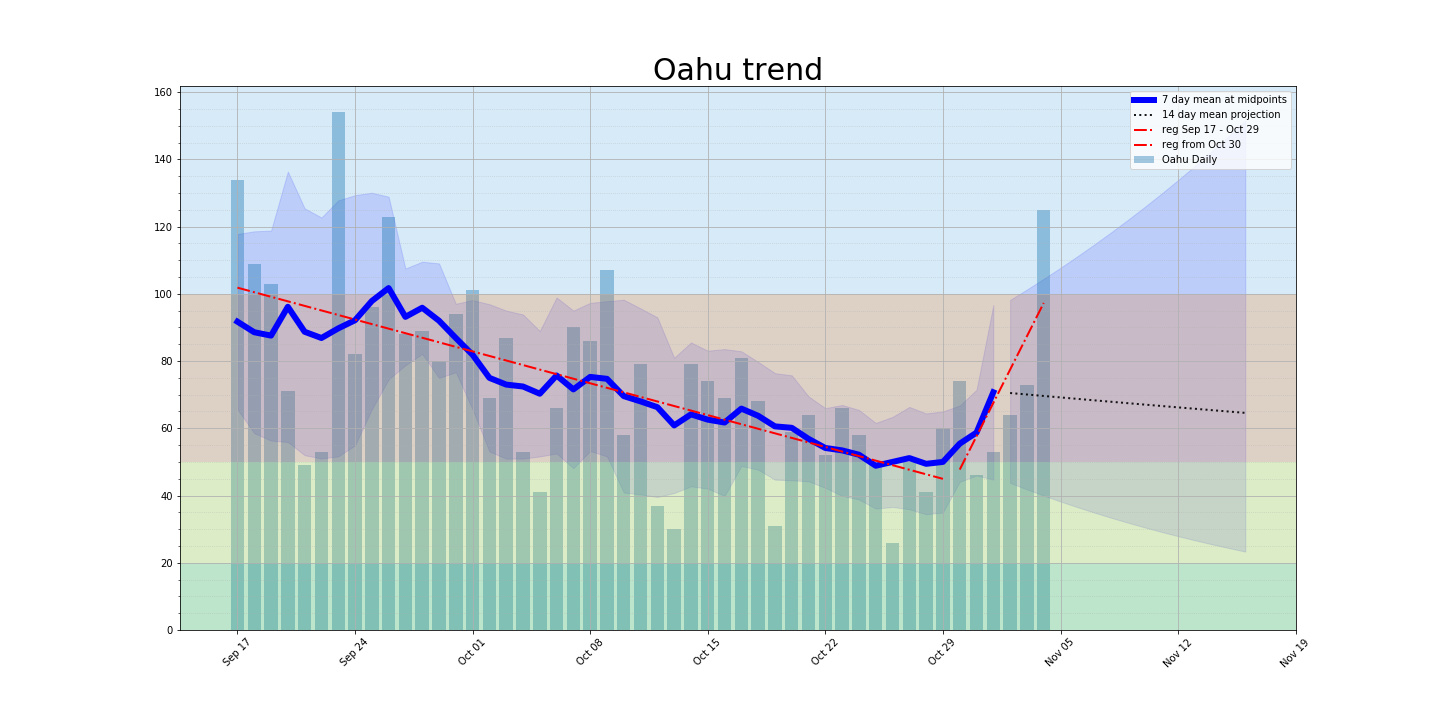
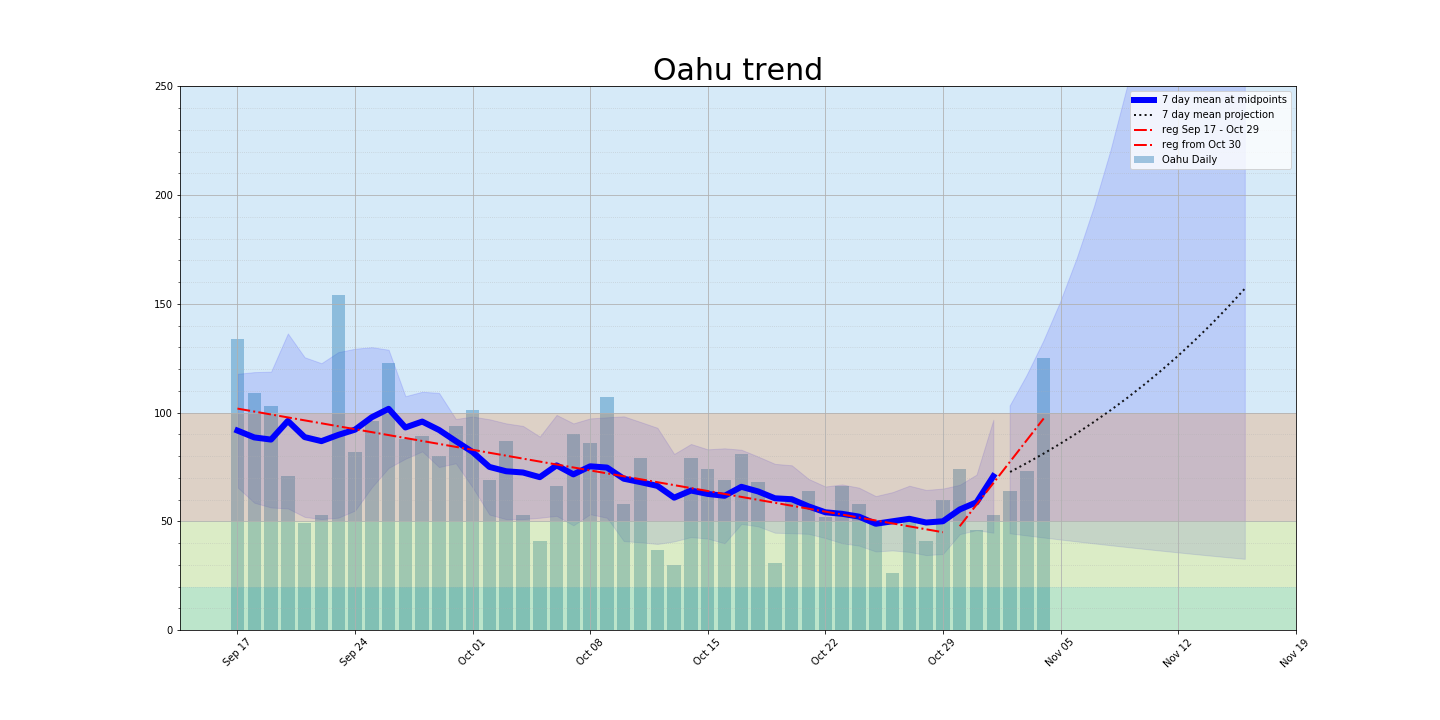
Add files via upload

Changed region(s): [[0.0938, 0.1222, 0.9062, 0.825]]

diff --git a/index.html b/index.html
@@ -194,7 +194,7 @@
 		
 		<br><img class="center-fit" src="oahu_smoothed.png" alt="Oahu daily cases with smoothed average">
 		<br><img class="center-fit" src ="trend.png" alt="Oahu daily cases with 7 day mean and trend projection">
-		<p class="center-fit">The average rate over the last two weeks was about 0.994, std = 0.038.</p>
+		<p class="center-fit">The average rate over the week was about 1.057, std = 0.078.</p>
 		<br><img class="center-fit" src="rfSignal.png" alt="Rising or Falling as percent of standard deviation and phase corrected">
 	</div>
 	<script data-goatcounter="https://webb001.goatcounter.com/count"
